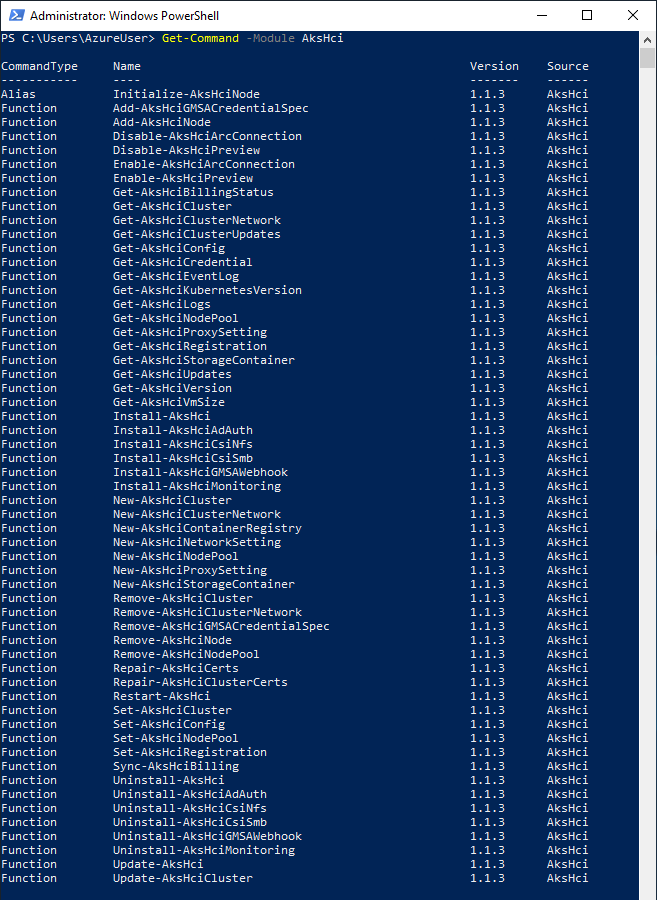
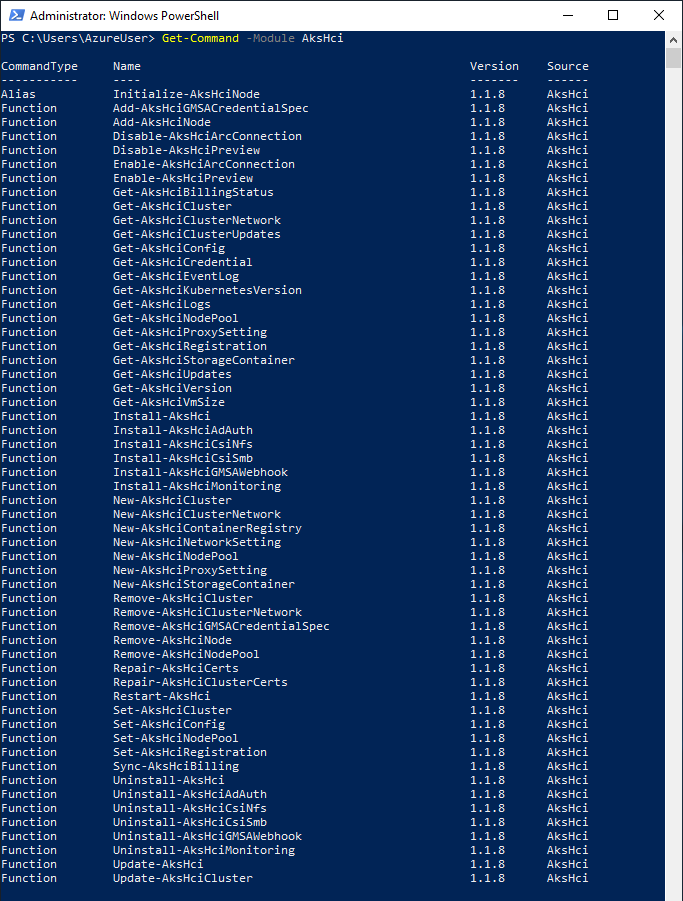
September updates

diff --git a/eval/steps/2b_DeployAKSHCI_PS.md b/eval/steps/2b_DeployAKSHCI_PS.md
@@ -78,7 +78,7 @@ Now, seeing as you're deploying this evaluation in Azure, it assumes you already
 
 * An Azure subscription with **at least one** of the following:
    1. A user account with the built-in **Owner** role 
-   2. A Service Principal with either the built-in **Microsoft.Kubernetes connected cluster role** (Minimum), built-in **Contributer** role or built-in **Owner** role
+   2. A Service Principal with either the built-in **Kubernetes Cluster - Azure Arc Onboarding** (Minimum), built-in **Contributer** role or built-in **Owner** role
 
 #### Optional - Create a new Service Principal ####
 
@@ -314,7 +314,16 @@ To get a list of available VM sizes, run **Get-AksHciVmSize**
 
 ____________________
 
+### Node Pools, Taints and Max Pod Counts ###
+
 If you're not familiar with the concept of **node pools**, a node pool is a **group of nodes**, or virtual machines that run your applications, within a Kubernetes cluster that have the same configuration, giving you more granular control over your clusters. You can deploy multiple Windows node pools and multiple Linux node pools of different sizes, within the same Kubernetes cluster.
+
+Another configuration option that can be applied to a node pool is the concept of **taints**. A taint can be specified for a particular node pool at both cluster and node pool creation time, and essential allow you to prevent pods being placed on specific nodes based on characteristics that you specify. You can learn more about [taints here](https://kubernetes.io/docs/concepts/scheduling-eviction/taint-and-toleration/ "Information about taints").
+
+This guide doesn't require you to specify a taint, but if you do wish to explore the commands for adding a taint to a node pool, make sure you read the [official docs](https://docs.microsoft.com/en-us/azure-stack/aks-hci/use-node-pools#specify-a-taint-for-a-node-pool "Official docs on taints").
+
+In addition to taints, we have recently added suport for configuring the **maximum number of pods** that can run on a node, with the **-nodeMaxPodCount** parameter. You can specify this parameter when creating a cluster, or when creating a new node pool.
+
 _____________________
 
 The deployment of this Kubernetes workload cluster should take a few minutes, and once complete, should present information about the deployment, however you can verify the details by running the following command:
@@ -323,7 +332,7 @@ The deployment of this Kubernetes workload cluster should take a few minutes, an
 Get-AksHciCluster
 ```
 
-![Output of Get-AksHciCluster](/eval/media/get_akshcicluster_july.png "Output of Get-AksHciCluster")
+![Output of Get-AksHciCluster](/eval/media/get_akshcicluster_sept.png "Output of Get-AksHciCluster")
 
 ____________
 
@@ -333,7 +342,7 @@ ____________
 Get-AksHciNodePool -clusterName akshciclus001
 ```
 
-![Output of Get-AksHciNodePool](/eval/media/get_akshcinodepool.png "Output of Get-AksHciNodePool")
+![Output of Get-AksHciNodePool](/eval/media/get_akshcinodepool_sept.png "Output of Get-AksHciNodePool")
 
 ____________
 
@@ -355,7 +364,7 @@ With your cluster scaled out, you can check the node pool status by running:
 Get-AksHciNodePool -clusterName akshciclus001
 ```
 
-![Output of Get-AksHciNodePool](/eval/media/get_akshcinodepool2.png "Output of Get-AksHciNodePool")
+![Output of Get-AksHciNodePool](/eval/media/get_akshcinodepool2_sept.png "Output of Get-AksHciNodePool")
 
 *******************************************************************************************************
 
@@ -375,18 +384,18 @@ Set-AksHciCluster –Name akshciclus001 -controlPlaneNodeCount 3
 Get-AksHciCluster
 ```
 
-![Output of Get-AksHciCluster](/eval/media/get_akshcicluster_july_2.png "Output of Get-AksHciCluster")
+![Output of Get-AksHciCluster](/eval/media/get_akshcicluster_sept2.png "Output of Get-AksHciCluster")
 
 To access this **akshciclus001** cluster using **kubectl** (which was installed on your host as part of the overall installation process), you'll first need the **kubeconfig file**.
 
 6. To retrieve the kubeconfig file for the akshciclus001 cluster, you'll need to run the following command from your **administrative PowerShell** and accept the prompt when prompted:
 
 ```powershell
-Get-AksHciCredential -Name akshciclus001
+Get-AksHciCredential -Name akshciclus001 -Confirm:$false
 dir $env:USERPROFILE\.kube
 ```
 
-![Output of Get-AksHciCredential](/eval/media/get_akshcicred_2.png "Output of Get-AksHciCredential")
+![Output of Get-AksHciCredential](/eval/media/get_akshcicred_sept.png "Output of Get-AksHciCredential")
 
 The **default** output of this command is to create the kubeconfig file in **%USERPROFILE%\\.kube.** folder, and will name the file **config**. This **config** file will overwrite the previous kubeconfig file retrieved earlier. You can also specify a custom location by using **-configPath c:\myfiles\kubeconfig**
 

diff --git a/eval/steps/2a_DeployAKSHCI_WAC.md b/eval/steps/2a_DeployAKSHCI_WAC.md
@@ -329,7 +329,16 @@ Get-AksHciCluster
 
 ____________________
 
+### Node Pools, Taints and Max Pod Counts ###
+
 If you're not familiar with the concept of **node pools**, a node pool is a **group of nodes**, or virtual machines that run your applications, within a Kubernetes cluster that have the same configuration, giving you more granular control over your clusters. You can deploy multiple Windows node pools and multiple Linux node pools of different sizes, within the same Kubernetes cluster.
+
+Another configuration option that can be applied to a node pool is the concept of **taints**. A taint can be specified for a particular node pool at cluster and node pool creation time, and essential allow you to prevent pods being placed on specific nodes based on characteristics that you specify. You can learn more about [taints here](https://kubernetes.io/docs/concepts/scheduling-eviction/taint-and-toleration/ "Information about taints").
+
+This guide doesn't require you to specify a taint, but if you do wish to explore the commands for adding a taint to a node pool, make sure you read the [official docs](https://docs.microsoft.com/en-us/azure-stack/aks-hci/use-node-pools#specify-a-taint-for-a-node-pool "Official docs on taints").
+
+In addition to taints, we have recently added suport for configuring the **maximum number of pods** that can run on a node with PowerShell, with the **-nodeMaxPodCount** parameter. You can specify this parameter when creating a cluster, or when creating a new node pool.
+
 _____________________
 
 First, you can confirm your node pool names and details by running the following command:
@@ -357,7 +366,7 @@ Set-AksHciCluster –Name akshciclus001 -controlPlaneNodeCount 3
 
 *******************************************************************************************************
 
-4. Once these steps have been completed, you can verify the details by running the following command:
+1. Once these steps have been completed, you can verify the details by running the following command:
 
 ```powershell
 Get-AksHciCluster
@@ -370,7 +379,7 @@ To access this **akshciclus001** cluster using **kubectl** (which was installed 
 5. To retrieve the kubeconfig file for the akshciclus001 cluster, you'll need to run the following command from your **administrative PowerShell**:
 
 ```powershell
-Get-AksHciCredential -Name akshciclus001
+Get-AksHciCredential -Name akshciclus001 -Confirm:$false
 dir $env:USERPROFILE\.kube
 ```
 

diff --git a/eval/readme.md b/eval/readme.md
@@ -14,7 +14,7 @@ In this guide, we'll walk you deploying the [Azure Kubernetes Service (AKS) on A
 
 Version
 -----------
-This guide has been tested and validated with the **August 2021 release** of AKS on Azure Stack HCI.
+This guide has been tested and validated with the **September 2021 release** of AKS on Azure Stack HCI.
 
 Contents
 -----------

diff --git a/eval/autodeploy/README.md b/eval/autodeploy/README.md
@@ -9,7 +9,7 @@ This guide will walk you through all the pre-requisites you need, and the steps 
 
 Version
 -----------
-This guide has been tested and validated with the **August 2021 release** of AKS on Azure Stack HCI.
+This guide has been tested and validated with the **September 2021 release** of AKS on Azure Stack HCI.
 
 Contents
 -----------
